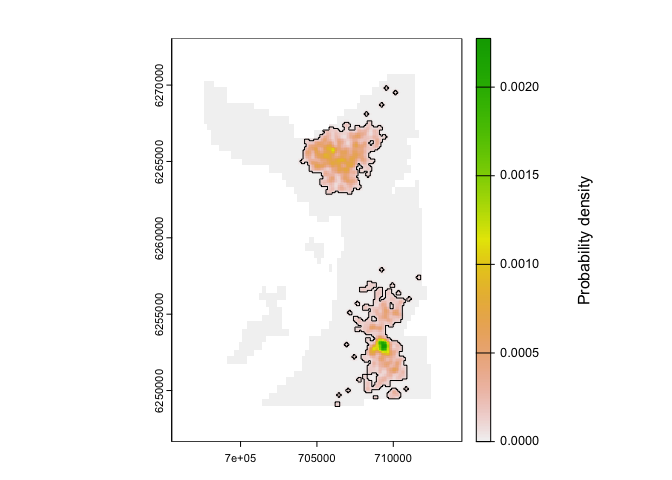
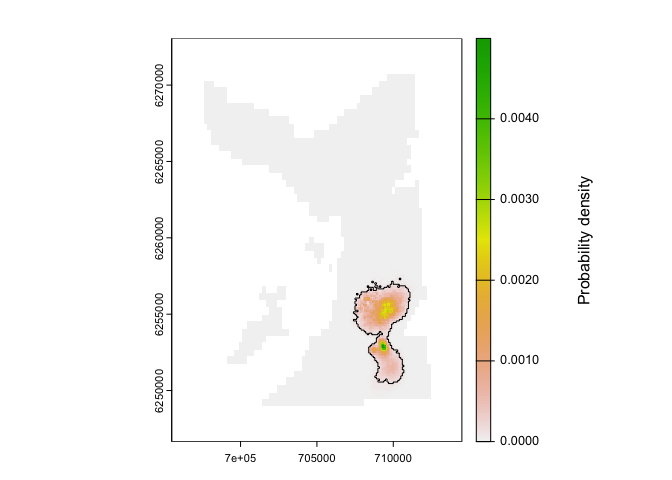
Update README

diff --git a/README.md b/README.md
@@ -276,14 +276,14 @@ containers_bwd = CSV.read(joinpath("data", "containers-bwd.csv"), DataFrame);
 first(containers_bwd, 6)
 #> 6×6 DataFrame
 #>  Row │ timestamp            obs    sensor_id  receiver_x  receiver_y  radius
-#>      │ String31             Int64  Int64      Float64     Float64     Int64
-#> ─────┼───────────────────────────────────────────────────────────────────────
-#>    1 │ 2016-03-17 01:52:00      1         26   7.09242e5   6.25311e6    1500
-#>    2 │ 2016-03-17 01:54:00      1         26   7.09242e5   6.25311e6    1500
-#>    3 │ 2016-03-17 01:56:00      1         26   7.09242e5   6.25311e6    1500
-#>    4 │ 2016-03-17 01:58:00      1         26   7.09242e5   6.25311e6    2250
-#>    5 │ 2016-03-17 02:00:00      1         26   7.09242e5   6.25311e6    1500
-#>    6 │ 2016-03-17 02:02:00      1         26   7.09242e5   6.25311e6    1500
+#>      │ String31             Int64  Int64      Float64     Float64     Float64
+#> ─────┼────────────────────────────────────────────────────────────────────────
+#>    1 │ 2016-03-17 01:52:00      1         26   7.09242e5   6.25311e6   1500.0
+#>    2 │ 2016-03-17 01:54:00      1         26   7.09242e5   6.25311e6   1500.0
+#>    3 │ 2016-03-17 01:56:00      1         26   7.09242e5   6.25311e6   1500.0
+#>    4 │ 2016-03-17 01:58:00      1         26   7.09242e5   6.25311e6   2250.0
+#>    5 │ 2016-03-17 02:00:00      1         26   7.09242e5   6.25311e6   1500.0
+#>    6 │ 2016-03-17 02:02:00      1         26   7.09242e5   6.25311e6   1500.0
 
 # Read archival (depth) observations
 archival = CSV.read(joinpath("data", "archival.csv"), DataFrame);
@@ -339,27 +339,27 @@ datasets_bwd        = [acoustics, containers_bwd, archival]
 #>  12959 │ 2016-03-18T01:48:00         31      0   7.09742e5   6.25331e6
 #>  12960 │ 2016-03-18T01:48:00         33      0   7.07342e5   6.25341e6
 #>                                                 3 columns and 12945 rows omitted
-#>  360×6 DataFrame
-#>  Row │ timestamp            obs    sensor_id  receiver_x  receiver_y  radius
-#>      │ DateTime             Int64  Int64      Float64     Float64     Int64
-#> ─────┼───────────────────────────────────────────────────────────────────────
-#>    1 │ 2016-03-17T01:52:00      1         26   7.09242e5   6.25311e6    1500
-#>    2 │ 2016-03-17T01:54:00      1         26   7.09242e5   6.25311e6    1500
-#>    3 │ 2016-03-17T01:56:00      1         26   7.09242e5   6.25311e6    1500
-#>    4 │ 2016-03-17T01:58:00      1         26   7.09242e5   6.25311e6    2250
-#>    5 │ 2016-03-17T02:00:00      1         26   7.09242e5   6.25311e6    1500
-#>    6 │ 2016-03-17T02:02:00      1         26   7.09242e5   6.25311e6    1500
-#>    7 │ 2016-03-17T02:04:00      1         26   7.09242e5   6.25311e6    2250
-#>    8 │ 2016-03-17T02:06:00      1         26   7.09242e5   6.25311e6    1500
-#>   ⋮  │          ⋮             ⋮        ⋮          ⋮           ⋮         ⋮
-#>  354 │ 2016-03-17T13:14:00      1         26   7.09242e5   6.25311e6   95250
-#>  355 │ 2016-03-17T13:16:00      1         26   7.09242e5   6.25311e6   96000
-#>  356 │ 2016-03-17T13:18:00      1         26   7.09242e5   6.25311e6   96750
-#>  357 │ 2016-03-17T13:20:00      1         26   7.09242e5   6.25311e6   97500
-#>  358 │ 2016-03-17T13:22:00      1         26   7.09242e5   6.25311e6   98250
-#>  359 │ 2016-03-17T13:24:00      1         26   7.09242e5   6.25311e6   99000
-#>  360 │ 2016-03-17T13:26:00      1         26   7.09242e5   6.25311e6   99750
-#>                                                              345 rows omitted
+#>  731×6 DataFrame
+#>  Row │ timestamp            obs    sensor_id  receiver_x  receiver_y  radius   ⋯
+#>      │ DateTime             Int64  Int64      Float64     Float64     Float64  ⋯
+#> ─────┼──────────────────────────────────────────────────────────────────────────
+#>    1 │ 2016-03-17T01:52:00      1         26   7.09242e5   6.25311e6    1500.0 ⋯
+#>    2 │ 2016-03-17T01:54:00      1         26   7.09242e5   6.25311e6    1500.0
+#>    3 │ 2016-03-17T01:56:00      1         26   7.09242e5   6.25311e6    1500.0
+#>    4 │ 2016-03-17T01:58:00      1         26   7.09242e5   6.25311e6    2250.0
+#>    5 │ 2016-03-17T02:00:00      1         26   7.09242e5   6.25311e6    1500.0 ⋯
+#>    6 │ 2016-03-17T02:02:00      1         26   7.09242e5   6.25311e6    1500.0
+#>    7 │ 2016-03-17T02:04:00      1         26   7.09242e5   6.25311e6    2250.0
+#>    8 │ 2016-03-17T02:06:00      1         26   7.09242e5   6.25311e6    1500.0
+#>   ⋮  │          ⋮             ⋮        ⋮          ⋮           ⋮          ⋮     ⋱
+#>  725 │ 2016-03-18T01:36:00      1         26   7.09242e5   6.25311e6  373500.0 ⋯
+#>  726 │ 2016-03-18T01:38:00      1         26   7.09242e5   6.25311e6  374250.0
+#>  727 │ 2016-03-18T01:40:00      1         26   7.09242e5   6.25311e6  375000.0
+#>  728 │ 2016-03-18T01:42:00      1         26   7.09242e5   6.25311e6  375750.0
+#>  729 │ 2016-03-18T01:44:00      1         26   7.09242e5   6.25311e6  376500.0 ⋯
+#>  730 │ 2016-03-18T01:46:00      1         26   7.09242e5   6.25311e6  377250.0
+#>  731 │ 2016-03-18T01:48:00      1         26   7.09242e5   6.25311e6  378000.0
+#>                                                                716 rows omitted
 #>  720×5 DataFrame
 #>  Row │ timestamp            sensor_id  obs      depth_sigma  depth_deep_eps
 #>      │ DateTime             Int64      Float64  Int64        Int64
@@ -427,7 +427,7 @@ fwd = particle_filter(timeline = timeline,
                       xinit = xinit,
                       yobs = yobs_fwd,
                       model_move = model_move,
-                      n_record = 500,
+                      n_record = 1000,
                       direction = "forward");
 
 # Simulate initial states for the backward filter
@@ -447,7 +447,7 @@ bwd = particle_filter(timeline = timeline,
                       xinit = xinit,
                       yobs = yobs_bwd,
                       model_move = model_move,
-                      n_record = 500,
+                      n_record = 1000,
                       direction = "backward");
 ```
 
@@ -468,7 +468,7 @@ and after each step):
 
 ``` julia
 # (optional) Set vmap to improve speed here
-n_particle = 100;
+n_particle = 750;
 smo = two_filter_smoother(timeline = timeline,
                           xfwd = fwd.state[1:n_particle, :],
                           xbwd = bwd.state[1:n_particle, :],
